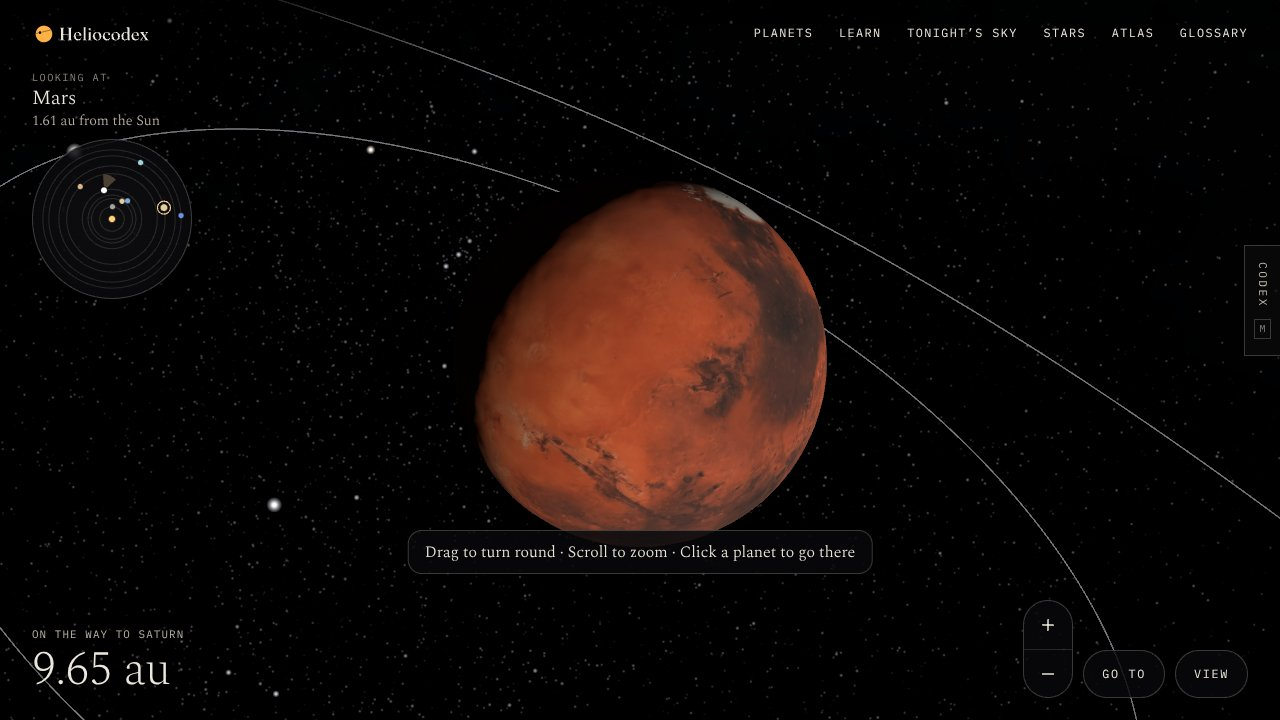
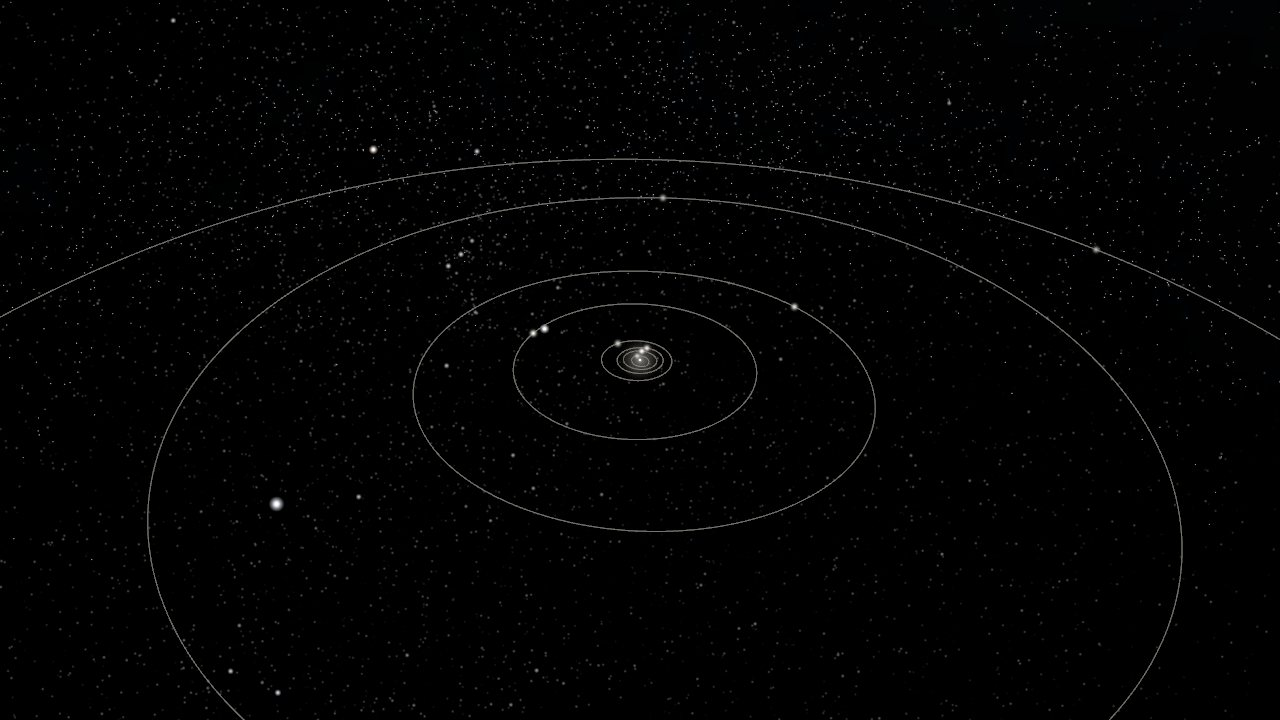
Round 11 fixes: charts in the site's type, seasons drawing, lessons without numbers, star names that fit, clean 3D picture
Claude-Session: https://claude.ai/code/session_01Sn3b4aw7CW1Xq7Rp56DuaM

diff --git a/src/lib/learn/map.ts b/src/lib/learn/map.ts
@@ -65,11 +65,15 @@ export function thumb(l: Lesson): { src: string; face: boolean } | null {
   return pack ? { src: pack.photo.src, face: false } : null;
 }
 
-/** A lesson's opening picture: a good photograph that is not the first one in the first look,
- *  so the page does not show the same picture twice in a row; else its small picture. */
-export function cover(l: Lesson): { src: string; face: boolean } | null {
-  const per = l.levels.map((lv) => [...(lv.body ?? '').matchAll(/src="(\/img\/learn\/[^"]+\.(?:jpg|png|webp))"/g)].map((m) => m[1]));
-  const firstShown = per[0]?.[0];
-  const good = per.flat().find((s) => s !== firstShown && (lit[s] ?? 1) >= 0.08);
-  return good ? { src: good, face: false } : thumb(l);
+/** A lesson's opening picture: its first good photograph, lifted out of the text together with its caption
+ *  and credit, so the page shows it once, at the top. Charts and mostly black photographs are passed over. */
+export function cover(l: Lesson): { src: string; caption: string } | null {
+  for (const lv of l.levels) {
+    for (const m of (lv.body ?? '').matchAll(/<figure[^>]*>([\s\S]*?)<\/figure>/g)) {
+      const src = /src="(\/img\/learn\/(?!charts\/)[^"]+\.(?:jpg|png|webp))"/.exec(m[1])?.[1];
+      if (!src || (lit[src] ?? 1) < 0.08) continue;
+      return { src, caption: /<figcaption>([\s\S]*?)<\/figcaption>/.exec(m[1])?.[1].trim() ?? '' };
+    }
+  }
+  return null;
 }

diff --git a/src/styles/reading.css b/src/styles/reading.css
@@ -95,3 +95,8 @@ body:has(.reading) { background: #0b0b0c; }
   .reading-head.with-pic { min-height: 0; padding-top: 9rem; }
   .reading-head.with-pic::before { width: auto; left: calc(-1 * var(--gutter)); bottom: 45%; -webkit-mask-image: linear-gradient(to top, transparent, #000 60%); mask-image: linear-gradient(to top, transparent, #000 60%); opacity: .7; }
 }
+
+/* drawn charts, put into the page at build time (src/lib/charts.mjs) so they are set in the site's own type */
+.prose svg.chart { display: block; width: 100%; height: auto; font-family: var(--r-serif); font-weight: 400; }
+.prose svg.chart > rect:first-child { fill: transparent; }
+.prose figure:has(svg.chart) { background: #0e0e10; border: 1px solid var(--rule); border-radius: 4px; padding: 1rem 1rem .9rem; }

diff --git a/src/content/lessons/seasons/first-look.md b/src/content/lessons/seasons/first-look.md
@@ -10,6 +10,11 @@ The real cause is that the Earth leans. Its axis is tipped over by 23.4°, and i
 So in June the northern half of the world leans towards the Sun. The Sun climbs high, the days are long, and the ground has time to warm. Six months later the Earth is on the other side of its orbit, still leaning the same way, which now means the north leans away. The Sun stays low and the days are short.
 
 <figure class="photo">
+  <img src="/img/learn/charts/the-lean-and-the-year.svg" alt="A drawing of the Earth at four places on its path round the Sun. Its axis leans the same way at all four. In June the north end leans towards the Sun, in December away from it, and in March and September neither end leans towards it." width="1160" height="560" loading="lazy" />
+  <figcaption><b>A drawing.</b> The Earth at four points on its year round the Sun, with its axis leaning 23.4° the same way at every one. The path is drawn squashed because it is seen at a slant; in fact it is very nearly a circle. Not to scale: the Sun is about 109 times wider than the Earth, and the Earth is about 12,000 of its own widths from the Sun.</figcaption>
+</figure>
+
+<figure class="photo">
   <img src="/img/learn/earth-seasons-meteosat.jpg" alt="Four black and white views of the Earth, each half lit. The line between day and night leans one way in the first, is upright in the second, leans the other way in the third and is upright again in the fourth." width="720" height="720" loading="lazy" />
   <figcaption><b>Four satellite pictures.</b> The Earth seen from the same satellite at the same time of the morning on four days: 21 December 2010, 20 March, 21 June and 20 September 2011. The dates are part of the published picture. In December the edge of daylight leans away from the North Pole, which stays dark. In June it leans the other way. In March and September it runs from pole to pole. Credit: NASA Earth Observatory, with data from EUMETSAT.</figcaption>
 </figure>
